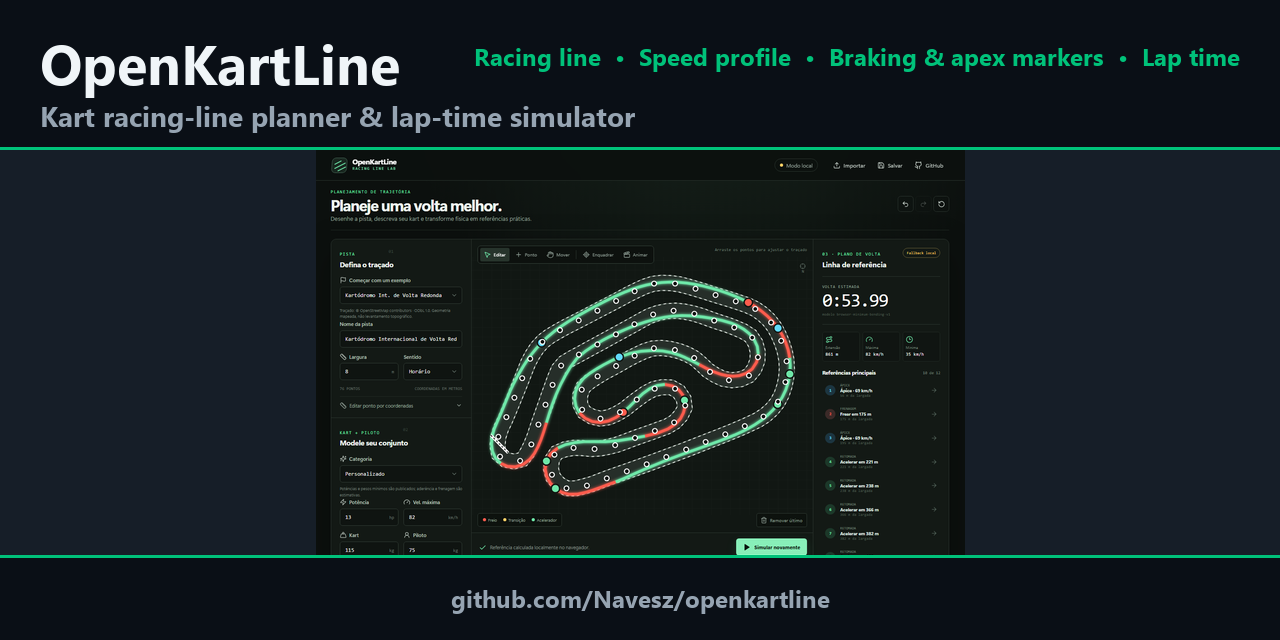
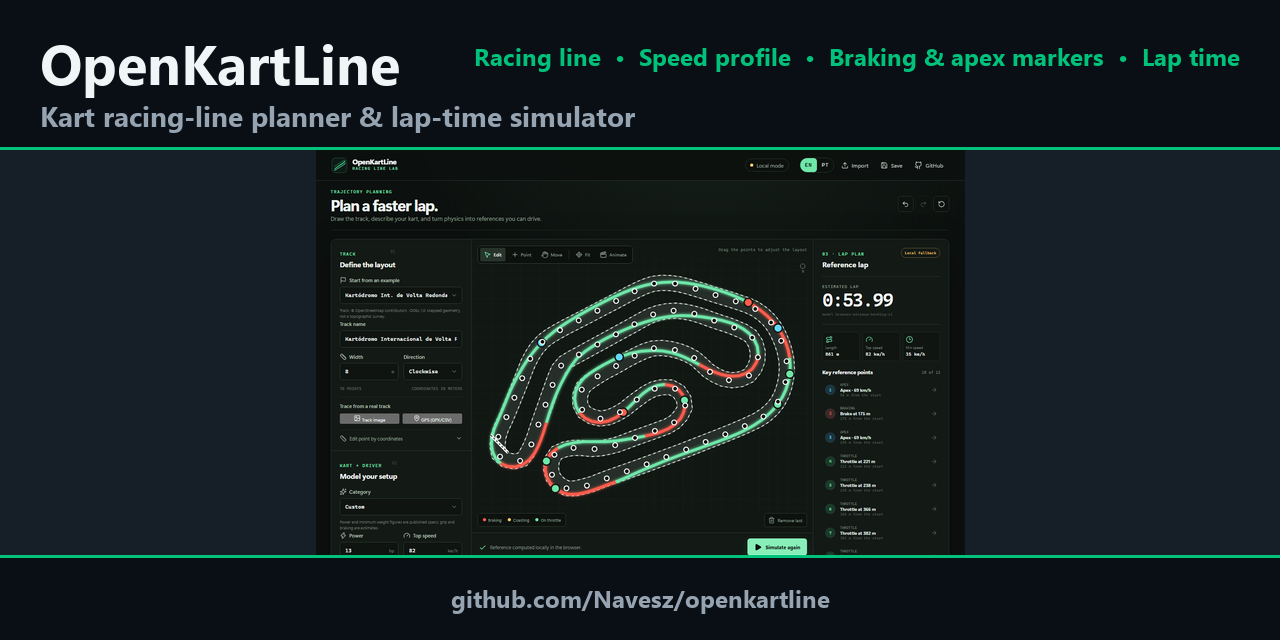
docs: refresh demo assets for the English UI and add a comparison section (#40)
## Summary

The README demo GIF and the repository social preview still showed the
Portuguese interface,
which no longer matches the live demo. Both are regenerated from the
existing reproducible
pipeline, now that the app is English by default. The recording script's
selectors were also
still Portuguese, so it would have failed on the next run.

Adds a **How it compares** section to both READMEs, naming
`TUMFTM/global_racetrajectory_optimization`, `fastest-lap`, and
`OpenLAP`, and stating plainly
where each of them is the better tool. A visitor's first question about
a lap-time simulator
is how it differs from the ones that already exist, and answering it
honestly is more
persuasive than avoiding it.

Also corrects the quick-start text, which told the reader to look for a
header that said
"Motor conectado" — a string that no longer exists in the interface.

## Test plan

- [x] `pnpm --filter @openkartline/web format:check`
- [x] `pnpm -C apps/web lint`
- [x] Demo GIF regenerated: 14 frames, 2.35 MB, under the 5 MB gate
- [x] Social preview regenerated at 1280×640, interface visibly in
English
- [ ] CI green
- [ ] Manual, cannot be scripted: upload
`docs/assets/social-preview.png` in Settings → General → Social preview

diff --git a/README.pt-BR.md b/README.pt-BR.md
@@ -32,6 +32,22 @@ Este é um projeto de engenharia e aprendizado, não um sistema de segurança. O
 
 O solver atual é uma linha-base restrita, **não** uma trajetória de tempo mínimo global. Bordas esquerda/direita independentes, calibração por telemetria, otimização conjunta de caminho/controle e instaladores nativos estão no roadmap.
 
+## Como se compara
+
+Simulação de tempo de volta é um campo bem servido, e para boa parte dele existem ferramentas melhores que esta. O posicionamento honesto:
+
+| Projeto | Força | Onde ganha do OpenKartLine |
+|---|---|---|
+| [TUMFTM/global_racetrajectory_optimization](https://github.com/TUMFTM/global_racetrajectory_optimization) | Otimização de traçado por curvatura mínima e tempo mínimo, usado em corrida autônoma real | Na otimização em si, com folga. Formulações de tempo mínimo de verdade, tratamento de pista mais rico e pesquisa publicada por trás |
+| [fastest-lap](https://github.com/juanmanzanero/fastest-lap) | Simulador de dinâmica veicular com solvers de volta ótima | Fidelidade do modelo de veículo: suspensão, aerodinâmica e transferência de carga, que um modelo point-mass não tem |
+| [OpenLAP](https://github.com/mc12027/OpenLAP-Lap-Time-Simulator) | Simulador de tempo de volta em MATLAB, bem documentado | Profundidade do modelo de veículo e do material didático, se você já tem MATLAB |
+
+Os três miram carros de corrida de tamanho real e esperam que você monte um ambiente Python, C++ ou MATLAB antes de ver qualquer resultado.
+
+O OpenKartLine difere no escopo e na entrega. O escopo é kart e modelo point-mass, um problema deliberadamente menor. A entrega é um editor métrico interativo mais um solver que roda sem instalação e sem conta, em que os números do navegador batem com os do Python porque o port em TypeScript é testado à paridade contra fixtures commitadas, no limite do arredondamento. Importe uma imagem de satélite ou uma volta em GPX, arraste os pontos e leia as referências de frenagem na linha.
+
+Se você quer o melhor traçado possível para um carro de corrida, use o primeiro da lista. Se você quer raciocinar sobre uma volta de kart no navegador e ler o código que produziu o número, este aqui é para você.
+
 ## Início rápido
 
 Requisitos: Node.js 24, pnpm 11 via Corepack, Python 3.11–3.13 e [uv](https://docs.astral.sh/uv/).
@@ -56,7 +72,7 @@ Em outro terminal, execute a aplicação web:
 pnpm dev
 ```
 
-Abra `http://localhost:5173`. O cabeçalho mostra **Motor conectado** quando usa a API Python e **Modo local** quando usa o fallback determinístico do navegador. A documentação interativa da API fica em `http://127.0.0.1:8000/docs`.
+Abra `http://localhost:5173`. O cabeçalho mostra **Motor MVP conectado** quando usa a API Python e **Modo local** quando usa o fallback determinístico do navegador. A interface abre em inglês por padrão; use o controle EN/PT no cabeçalho para mudar para português. A documentação interativa da API fica em `http://127.0.0.1:8000/docs`.
 
 Para executar a verificação local completa:
 

diff --git a/README.md b/README.md
@@ -32,6 +32,22 @@ This is an engineering and learning tool, not a safety system. Its output is an 
 
 The current solver is a constrained baseline, **not** a globally optimal minimum-time trajectory. Independent left/right boundaries, telemetry calibration, joint path/control optimization, and native installers are roadmap work.
 
+## How it compares
+
+Lap-time simulation is a well-served field, and for most of it there are better tools than this one. The honest positioning:
+
+| Project | Strength | Where it beats OpenKartLine |
+|---|---|---|
+| [TUMFTM/global_racetrajectory_optimization](https://github.com/TUMFTM/global_racetrajectory_optimization) | Minimum-curvature and minimum-time raceline optimization, used in real autonomous racing | The optimization itself, by a wide margin. Genuine minimum-time formulations, richer track handling, published research behind it |
+| [fastest-lap](https://github.com/juanmanzanero/fastest-lap) | Vehicle dynamics simulator with optimal-lap-time solvers | Vehicle model fidelity: suspension, aerodynamics, and load transfer, none of which a point-mass model has |
+| [OpenLAP](https://github.com/mc12027/OpenLAP-Lap-Time-Simulator) | Well-documented MATLAB lap-time simulator with detailed vehicle modelling | Depth of the vehicle model and its teaching material, if you already have MATLAB |
+
+Those three target full-size race cars and expect you to bring a Python, C++, or MATLAB setup before you see a result.
+
+OpenKartLine differs in scope and in delivery. The scope is karts and a point-mass model, which is a deliberately smaller problem. The delivery is an interactive metric track editor plus a solver that runs with no install and no account, where the browser numbers match the Python numbers because the TypeScript port is parity-tested against committed Python fixtures to roundoff. Import a satellite image or a GPX lap, drag the points, and read braking references off the line.
+
+If you want the best possible racing line for a race car, use the first one on that list. If you want to reason about a kart lap in your browser and read the code that produced the number, this is aimed at you.
+
 ## Quick start
 
 Requirements: Node.js 24, pnpm 11 through Corepack, Python 3.11–3.13, and [uv](https://docs.astral.sh/uv/).
@@ -56,7 +72,7 @@ Run the web application in another:
 pnpm dev
 ```
 
-Open `http://localhost:5173`. The header says **Motor conectado** when the Python API is in use and **Modo local** when the deterministic browser fallback is active. API documentation is available at `http://127.0.0.1:8000/docs`.
+Open `http://localhost:5173`. The header says **MVP engine connected** when the Python API is in use and **Local mode** when the deterministic browser fallback is active. The interface is in English by default and switches to Portuguese from the EN/PT control in the header. API documentation is available at `http://127.0.0.1:8000/docs`.
 
 Run the complete local verification:
 
